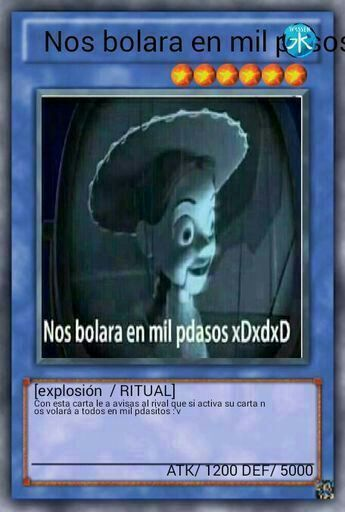
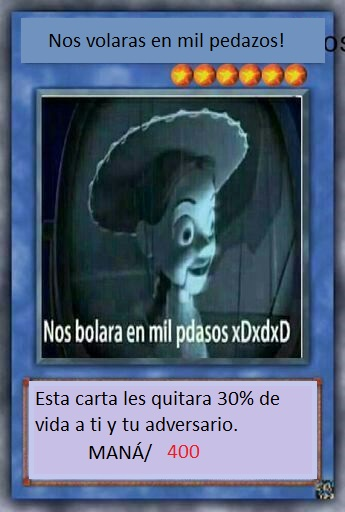
All Spells Works

Changed region(s): [[0.087, 0.7188, 0.9275, 0.9375], [0.058, 0.0312, 0.9565, 0.125]]

diff --git a/src/controller/GameController.java b/src/controller/GameController.java
@@ -456,12 +456,12 @@ public class GameController {
     private void actionHenchman(Henchman henchman, boolean sender) {
         Game game = Game.getInstance();
         if(sender) {
-            double life = ((double) game.getPlayerOtherLife() - henchman.getAtack())/ 1000;
-            this.progressBarLifeOtherPlayer.setProgress(life);
+
+            this.game.setPlayerOtherLife((int) ((double) game.getPlayerOtherLife() - henchman.getAtack()));
+            this.progressBarLifeOtherPlayer.setProgress(((double)game.getPlayerOtherLife() )/ 1000);
         }else {
             game.getPlayer().decreaseLife(henchman.getAtack());
-            double life = ((double) game.getPlayer().getLife()) / 1000;
-            this.progressBarLifeThisPLayer.setProgress(life);
+            this.progressBarLifeThisPLayer.setProgress(((double) game.getPlayer().getLife()) / 1000);
         }
     }
 
@@ -488,11 +488,12 @@ public class GameController {
             case 1 -> {
                 if(sender) {
                     game.getPlayer().increaseLife(spell.getHealth());
-                    double life = ((double) game.getPlayer().getLife()) / 1000;
-                    this.progressBarLifeThisPLayer.setProgress(life);
+                    this.progressBarLifeThisPLayer.setProgress(((double) game.getPlayer().getLife()) / 1000);
+
                 }else {
-                    double life = ((double) game.getPlayerOtherLife() + spell.getHealth())/ 1000;
-                    this.progressBarLifeOtherPlayer.setProgress(life);
+
+                    this.game.setPlayerOtherLife((int) ((double) game.getPlayerOtherLife() + spell.getHealth()));
+                    this.progressBarLifeOtherPlayer.setProgress(((double)game.getPlayerOtherLife() )/ 1000);
                 }
             }
             case 2 -> {
@@ -529,46 +530,74 @@ public class GameController {
                 }
             }
             case 4 -> {
-//                if(sender){
-//                    int rest = (int) (0.4*this.game.getPlayer().getLife());
-//                    this.game.getPlayer().increaseMana(1200);
-//                    this.
-//                }else{
-//                }
+                if(sender){
+                    this.game.getPlayer().increaseMana(1200);
+
+                    game.getPlayer().decreaseLife((int) (0.4 * this.game.getPlayer().getLife()));
+                    this.progressBarLifeThisPLayer.setProgress(((double) game.getPlayer().getLife()) / 1000);
+                }else{
+                    this.game.setPlayerOtherMana(1000);
+
+                    this.game.setPlayerOtherLife(game.getPlayerOtherLife() - (int) (0.4 * this.game.getPlayerOtherLife()));
+                    this.progressBarLifeOtherPlayer.setProgress(((double)game.getPlayerOtherLife() )/ 1000);
+                }
             }
             case 5 -> {
-                if(sender){
+                this.game.setPlayerOtherLife((int) ((double)game.getPlayerOtherLife() - (double)game.getPlayerOtherLife()*0.3));
+                this.progressBarLifeOtherPlayer.setProgress(((double)game.getPlayerOtherLife() )/ 1000);
 
-                }else{
 
-                }
+                game.getPlayer().decreaseLife((int) (this.game.getPlayer().getLife()*0.3));
+                this.progressBarLifeThisPLayer.setProgress(((double) game.getPlayer().getLife()) / 1000);
             }
             case 6 -> {
+                double more;
                 if(sender){
 
-                }else{
+                    more = (double) game.getPlayerOtherLife() * 0.2;
 
+                    //Me sumo la vida
+                    game.getPlayer().increaseLife((int) more);
+                    this.progressBarLifeThisPLayer.setProgress(((double) game.getPlayer().getLife()) / 1000);
+
+                    //Le quito la vida
+                    this.game.setPlayerOtherLife((int) (this.game.getPlayerOtherLife()-more));
+
+
+                }else{
+                    more = (double) game.getPlayer().getLife() * 0.2;
+
+                    //Me quito la vida que me quito el otro
+                    game.getPlayer().decreaseLife((int) more);
+                    this.progressBarLifeThisPLayer.setProgress(((double) game.getPlayer().getLife()) / 1000);
+
+                    //Le sumo la vida que me quito el otro jugador
+                    this.game.setPlayerOtherLife((int) (this.game.getPlayerOtherLife()+more));
                 }
+                this.progressBarLifeOtherPlayer.setProgress( (double) (this.game.getPlayerOtherLife())/1000);
             }
             case 7 -> {
-                if(sender){
-
-                }else{
-
+                if (sender) {
+                    this.game.getPlayer().setMultiplier(0.3);
                 }
             }
             case 8 -> {
                 if(sender){
-
-                }else{
-
+                    this.game.finishConexion();
+                    this.game.finishConexion();
+                    Alert alert = new Alert(Alert.AlertType.INFORMATION);
+                    alert.setHeaderText(null);
+                    alert.setTitle("Mana del otro Jugador");
+                    alert.setContentText("El ahorita tiene un mana de " + this.game.getPlayerOtherMana());
+                    alert.showAndWait();
                 }
             }
             case 9 -> {
                 if(sender){
-
+                    this.game.getPlayer().increaseMana(40);
+                    this.labelManaThisPlayer.setText(String.valueOf(this.game.getPlayer().getMana()));
                 }else{
-
+                    this.game.setPlayerOtherMana(this.game.getPlayerOtherMana()+40);
                 }
             }
         }

diff --git a/src/model/game/Game.java b/src/model/game/Game.java
@@ -441,7 +441,7 @@ public class Game {
                         this.deckStack.push(newCardS);
                     }
                     case 2 -> {
-                        Spell newCardSP = new Spell(arrayCard[num1][3]);
+                        Spell newCardSP = new Spell(arrayCard[num1][num2]);
                         this.deckStack.push(newCardSP);
                     }
                 }
@@ -484,7 +484,7 @@ public class Game {
                         this.handCardList.insertLast(newCardS);
                     }
                     case 2 -> {
-                        Spell newCardSP = new Spell(arrayCard[num1][3]);
+                        Spell newCardSP = new Spell(arrayCard[num1][num2]);
                         this.handCardList.insertLast(newCardSP);
                     }
                 }

diff --git a/src/model/cards/Spell.java b/src/model/cards/Spell.java
@@ -44,13 +44,6 @@ public class Spell extends Card{
             case 0 -> this.setShifts(1);
             case 1 -> this.setHealth(300);
             case 2 -> this.setShifts(3);
-            case 3 -> this.setAtack(40);
-            case 4 -> this.setAtack(50);
-            case 5 -> this.setAtack(20);
-            case 6 -> this.setAtack(150);
-            case 7 -> this.setAtack(80);
-            case 8 -> this.setAtack(120);
-            case 9 -> this.setAtack(340);
         }
     }
 

diff --git a/src/model/game/Player.java b/src/model/game/Player.java
@@ -29,7 +29,7 @@ public class Player {
     public Player(String name){
         this.name = name;
         this.mana = 600;
-        this.life = 800;
+        this.life = 1000;
     }
 
     /**
@@ -79,7 +79,7 @@ public class Player {
 
     public void decreaseMana(int num){
         if ((this.mana - num) <= 0) {
-            this.mana = 0;
+            this.mana = 50;
         } else {
             this.mana -= num;
         }

diff --git a/src/model/sockets/Client.java b/src/model/sockets/Client.java
@@ -44,7 +44,7 @@ public class Client extends Thread {
             this.clientOutD = new DataOutputStream(this.clientSocket.getOutputStream());
         } catch (UnknownHostException e) {
            closeConexion();
-        } catch (IOException e) {
+        } catch (Exception e) {
             closeConexion();
         }
     }

diff --git a/src/model/sockets/Server.java b/src/model/sockets/Server.java
@@ -103,7 +103,6 @@ public class Server {
             } catch (JsonProcessingException e) {
                 e.printStackTrace();
             } catch (IOException e) {
-                System.out.println("Error in read Socket");
                 closeConexion();
             }
         });
